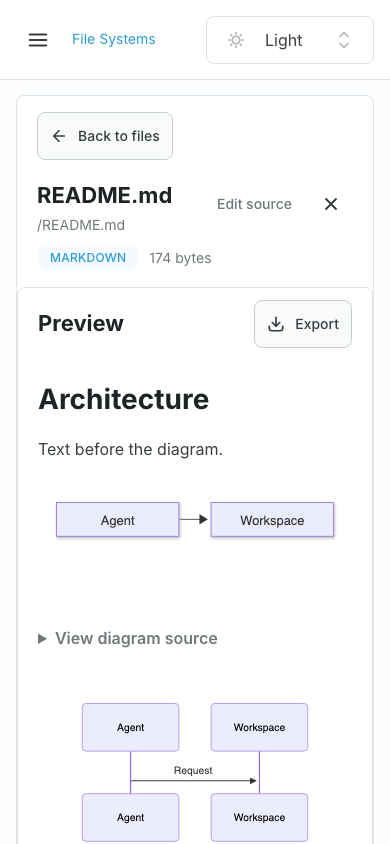
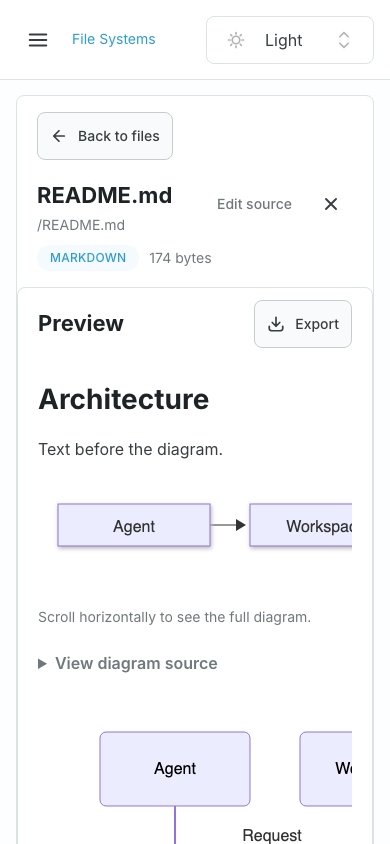
fix(files): preserve diagram readability on narrow screens

diff --git a/src/features/files/MermaidDiagram.tsx b/src/features/files/MermaidDiagram.tsx
@@ -11,6 +11,7 @@ export default function MermaidDiagram({ source }: { source: string }) {
   const channel = useRef(crypto.randomUUID());
   const [status, setStatus] = useState<'loading' | 'ready' | 'error'>('loading');
   const [height, setHeight] = useState(200);
+  const [overflow, setOverflow] = useState(false);
   const tooLarge = new TextEncoder().encode(source).length > maxDiagramBytes;
   const hasImageNode =
     !tooLarge &&
@@ -44,8 +45,11 @@ export default function MermaidDiagram({ source }: { source: string }) {
         'height' in message &&
         typeof message.height === 'number' &&
         Number.isFinite(message.height)
-      )
+      ) {
         setHeight(Math.min(1200, Math.max(120, message.height)));
+        if ('overflow' in message && typeof message.overflow === 'boolean')
+          setOverflow(message.overflow);
+      }
     };
     window.addEventListener('message', handleMessage);
     handshake();
@@ -73,6 +77,9 @@ export default function MermaidDiagram({ source }: { source: string }) {
           onLoad={handshake}
           style={{ height }}
         />
+      )}
+      {status === 'ready' && overflow && (
+        <p className="mermaid-scroll-hint">Scroll horizontally to see the full diagram.</p>
       )}
       {status === 'loading' && !tooLarge && !hasImageNode && (
         <p role="status">Rendering diagram…</p>

diff --git a/src/features/files/MermaidFrame.ts b/src/features/files/MermaidFrame.ts
@@ -61,9 +61,20 @@ window.addEventListener('message', async (event: MessageEvent<unknown>) => {
           node.removeAttribute(attribute.name);
       }
     });
+    const diagram = template.content.querySelector('svg');
+    const width = diagram?.viewBox.baseVal.width;
+    if (diagram && width && Number.isFinite(width)) {
+      diagram.style.setProperty('max-width', 'none', 'important');
+      diagram.style.width = `${Math.min(10000, Math.ceil(width))}px`;
+    }
     document.body.replaceChildren(template.content);
     document.addEventListener('click', (event) => event.preventDefault(), true);
-    const report = () => reply({ type: 'mermaid-height', height: document.body.scrollHeight });
+    const report = () =>
+      reply({
+        type: 'mermaid-height',
+        height: document.body.scrollHeight,
+        overflow: document.documentElement.scrollWidth > document.documentElement.clientWidth + 1,
+      });
     new ResizeObserver(report).observe(document.body);
     report();
     reply({ type: 'mermaid-ready' });

diff --git a/src/features/files/file-preview.css b/src/features/files/file-preview.css
@@ -271,3 +271,9 @@
 .mermaid-preview-error {
   color: var(--ink);
 }
+
+.mermaid-scroll-hint {
+  color: var(--muted);
+  font-size: 14px;
+  margin: 4px 0 0;
+}

diff --git a/docs/file-preview-verification.md b/docs/file-preview-verification.md
@@ -104,7 +104,8 @@ This compressed-byte limit is not a decoded pixel or frame budget; revisit with 
 ## Mermaid diagrams
 
 Markdown Mermaid fences and standalone `.mmd`/`.mermaid` files render inside the existing
-file preview. Graphs follow the active light or dark TiUI palette; source stays available
+file preview. Graphs follow the active light or dark TiUI palette and scroll horizontally when
+needed to preserve readable labels; source stays available
 through **View diagram source**, and ordinary file editing and Export remain unchanged.
 Invalid, over-budget, or unsupported embedded-image diagrams explain the fallback.
 
